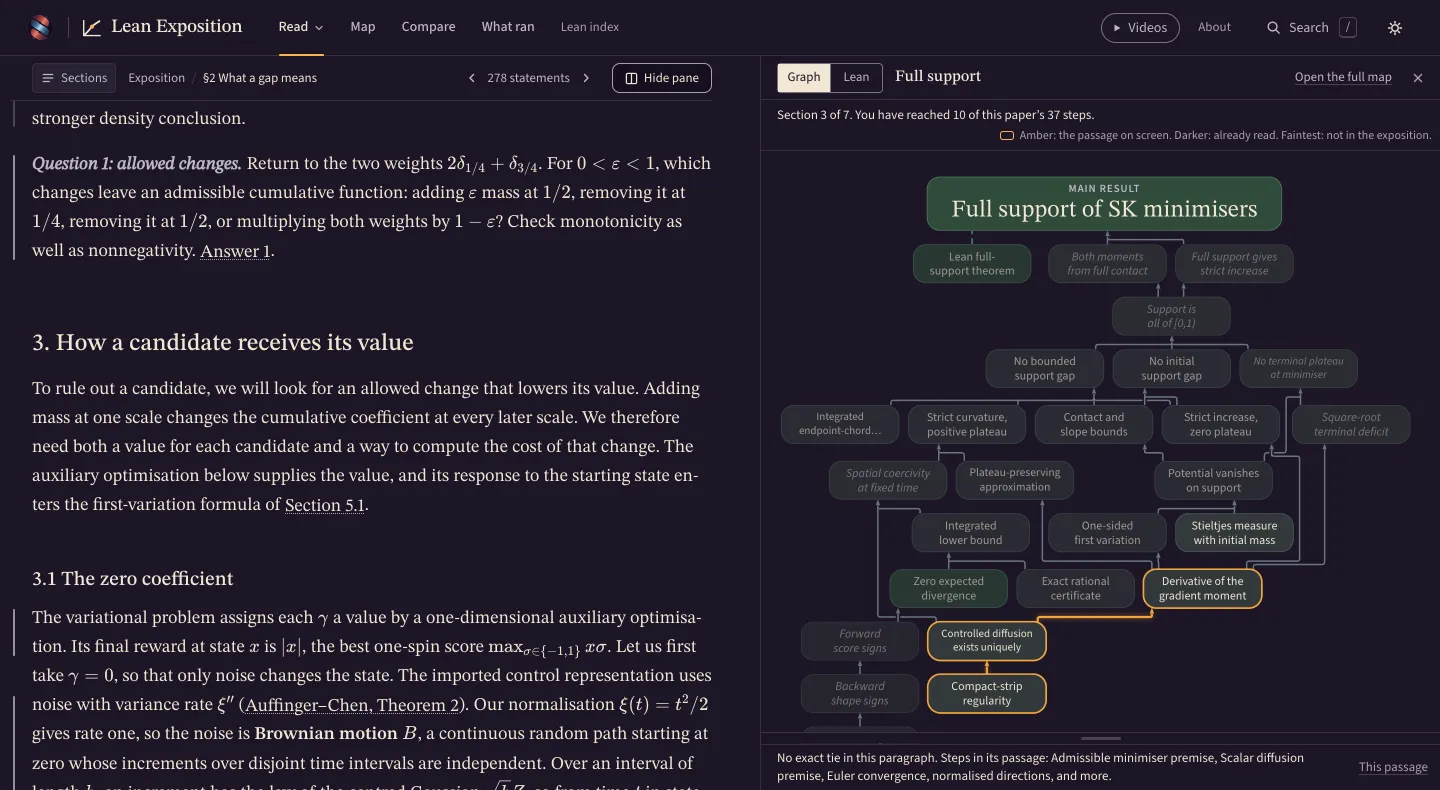
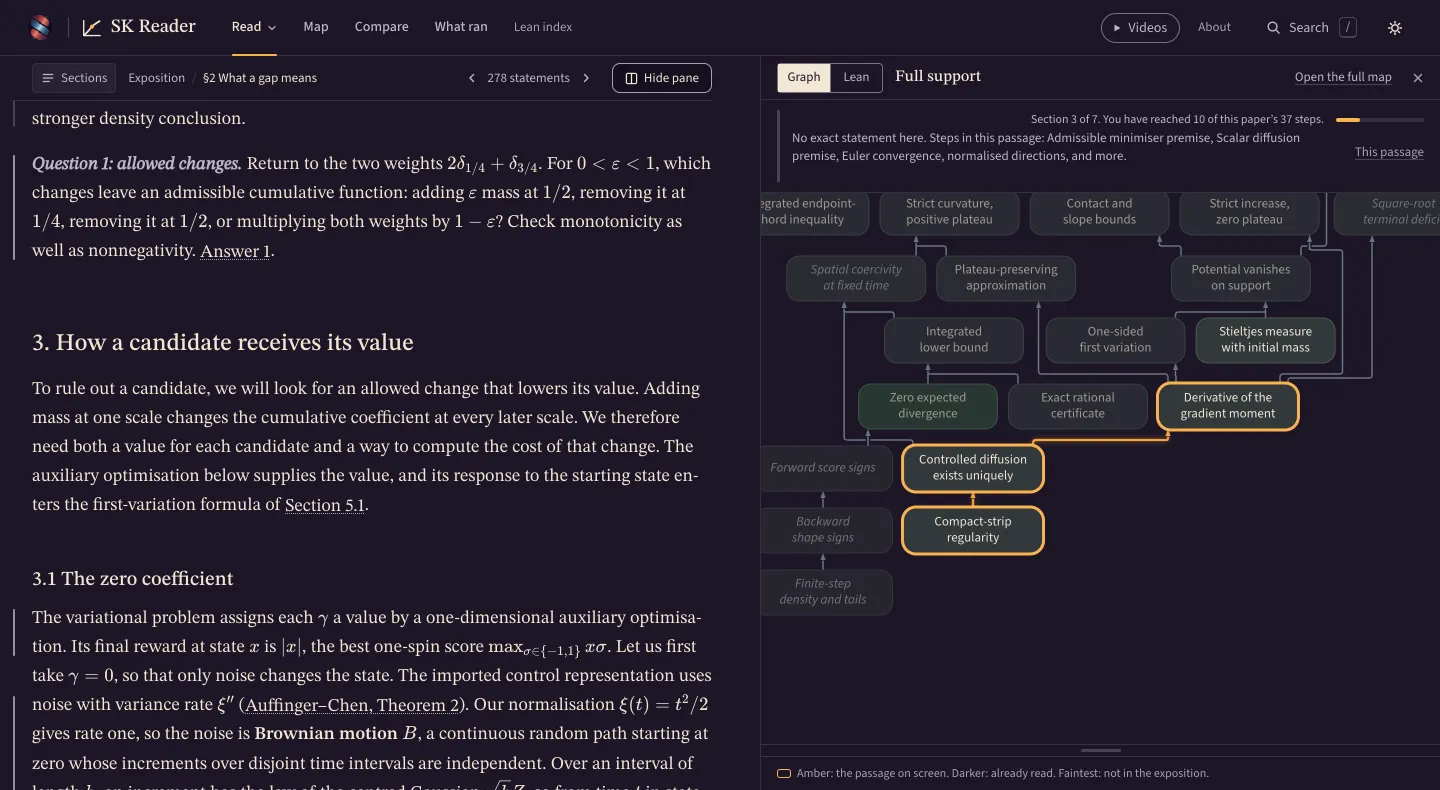
Name the website SK Reader
The family registry names this website SK Reader, and the footer's list of
sister sites already used that name. The header, the page titles, the citation
line and the generated README now use it too, from one constant. The software
that builds the papers keeps its name, lean-exposition, and no address changes.

The link preview image and the five pictures in the first screen are retaken,
so they carry the new name and the reader's new pane head.

diff --git a/site/src/home/heroMarkup.ts b/site/src/home/heroMarkup.ts
@@ -7,6 +7,7 @@
 
 import { LINK_CAVEAT, MODELS_STEP } from "../app/caveat.ts";
 import { siteFilms, type SiteFilm } from "../app/siteFilms.ts";
+import { SITE_NAME } from "../app/siteName.ts";
 
 export interface HeroRow {
   /** Exact text of the Lean statement. */
@@ -261,5 +262,5 @@ ${rows}
 /** The frame as plain HTML, the same markup TopBar renders, so the bar is there before the scripts. */
 export function frameHtml(base: string): string {
   const job = (href: string, name: string, quiet = false) => `<a class="topnav__job${quiet ? " topnav__job--quiet" : ""}" href="${base}${href}">${name}</a>`;
-  return `<header class="topbar"><span class="fam-lockup"><a class="fam-lockup__home" href="https://wcook04.github.io/" rel="author" title="All of Will Cook's websites and videos"><img src="${base}plectis.svg" alt="Will Cook: all websites and videos" width="26" height="26" /></a><span class="fam-lockup__rule" aria-hidden="true"></span><a class="fam-lockup__site" href="${base}" aria-label="Lean Exposition, front page"><svg viewBox="0 0 32 32" aria-hidden="true" class="wordmark__mark"><path d="M4 27 L4 5 M4 27 L28 27" fill="none" stroke-width="2" stroke-linecap="round"></path><path d="M5 26 C10 22 13 17 16 14 C19 11 22 9 27 6" fill="none" stroke-width="2.6" stroke-linecap="round"></path><circle cx="16" cy="14" r="3"></circle></svg><span class="fam-lockup__name" translate="no">Lean Exposition</span></a></span><nav class="topnav" aria-label="Main">${job("read/short", "Read")}${job("map", "Map")}${job("compare", "Compare")}${job("checks", "What ran")}${job("lean", "Lean index", true)}</nav></header>`;
+  return `<header class="topbar"><span class="fam-lockup"><a class="fam-lockup__home" href="https://wcook04.github.io/" rel="author" title="All of Will Cook's websites and videos"><img src="${base}plectis.svg" alt="Will Cook: all websites and videos" width="26" height="26" /></a><span class="fam-lockup__rule" aria-hidden="true"></span><a class="fam-lockup__site" href="${base}" aria-label="${SITE_NAME}, front page"><svg viewBox="0 0 32 32" aria-hidden="true" class="wordmark__mark"><path d="M4 27 L4 5 M4 27 L28 27" fill="none" stroke-width="2" stroke-linecap="round"></path><path d="M5 26 C10 22 13 17 16 14 C19 11 22 9 27 6" fill="none" stroke-width="2.6" stroke-linecap="round"></path><circle cx="16" cy="14" r="3"></circle></svg><span class="fam-lockup__name" translate="no">${SITE_NAME}</span></a></span><nav class="topnav" aria-label="Main">${job("read/short", "Read")}${job("map", "Map")}${job("compare", "Compare")}${job("checks", "What ran")}${job("lean", "Lean index", true)}</nav></header>`;
 }

diff --git a/site/vite.config.ts b/site/vite.config.ts
@@ -8,6 +8,7 @@ import { inflateSync } from "node:zlib";
 import { frameHtml, heroHtml, heroLinks } from "./src/home/heroMarkup.ts";
 import { readerFirstScreenHtml, readerSkeletonHtml } from "./src/reader/skeleton.ts";
 import { siteFacts, type SiteFacts } from "./src/home/siteFacts.ts";
+import { SITE_NAME } from "./src/app/siteName.ts";
 
 // The three accounts and architectural companion, as the repository renders them.
 // Download links use page counts read from the same files at build time.
@@ -388,7 +389,7 @@ function firstScreen(base: string, facts: SiteFacts, build = false): Plugin {
 }
 
 // The public repository that receives the static build has no other README.
-const SITE_README = `# Lean Exposition website
+const SITE_README = `# ${SITE_NAME} website
 
 Read a mathematical paper with the exact Lean statement beside the paragraph
 that describes it. Lean is a language for writing statements and proofs that a
@@ -465,7 +466,7 @@ const ROUTE_TITLES: Record<string, string> = {
   "read/short": "Short paper",
   "read/expository": "Exposition",
 };
-const titled = (html: string, title: string) => html.replace(/<title>[^<]*<\/title>/, `<title>${title} · Lean Exposition</title>`);
+const titled = (html: string, title: string) => html.replace(/<title>[^<]*<\/title>/, `<title>${title} · ${SITE_NAME}</title>`);
 
 // For readers that fetch text rather than run the page. It describes the same files the
 // browser reads, and no page loads it.

diff --git a/site/src/app/TopBar.tsx b/site/src/app/TopBar.tsx
@@ -13,6 +13,7 @@ import { PAPER_NAMES, STAGE_ORDER } from "./papers";
 import { useMaybeEdition } from "./data";
 import { FAMILY } from "./family";
 import { VideoRows, VideosMenu } from "./VideosMenu";
+import { SITE_NAME } from "./siteName";
 
 interface Props {
   route: Route;
@@ -78,14 +79,14 @@ export function TopBar({ route, onSearch }: Props) {
           <img src={`${import.meta.env.BASE_URL}plectis.svg`} alt="Will Cook: all websites and videos" width={26} height={26} />
         </a>
         <span className="fam-lockup__rule" aria-hidden="true" />
-        <a className="fam-lockup__site" href={routeHref({ view: "home" })} aria-label="Lean Exposition, front page" aria-current={route.view === "home" ? "page" : undefined}>
+        <a className="fam-lockup__site" href={routeHref({ view: "home" })} aria-label={`${SITE_NAME}, front page`} aria-current={route.view === "home" ? "page" : undefined}>
           <svg viewBox="0 0 32 32" aria-hidden="true" className="wordmark__mark">
             <path d="M4 27 L4 5 M4 27 L28 27" fill="none" strokeWidth="2" strokeLinecap="round" />
             <path d="M5 26 C10 22 13 17 16 14 C19 11 22 9 27 6" fill="none" strokeWidth="2.6" strokeLinecap="round" />
             <circle cx="16" cy="14" r="3" />
           </svg>
           <span className="fam-lockup__name" translate="no">
-            Lean Exposition
+            {SITE_NAME}
           </span>
         </a>
       </span>

diff --git a/site/tests/family.test.tsx b/site/tests/family.test.tsx
@@ -103,7 +103,7 @@ describe("a film slot", () => {
     expect(frame.className).toBe("film-slot__frame film-slot__frame--pending");
     expect(frame.getAttribute("aria-hidden")).toBe("true");
     expect([...frame.children].map((c) => [c.className, c.textContent])).toEqual([
-      ["film-slot__series", "Lean Exposition"],
+      ["film-slot__series", "SK Reader"],
       ["film-slot__name", film.short],
       ["film-slot__status", "In preparation"],
     ]);
@@ -211,7 +211,7 @@ describe("the header's lockup", () => {
     const own = lockup.querySelector<HTMLAnchorElement>("a.fam-lockup__site")!;
     expect(own.getAttribute("href")).toBe("/");
     expect(own.querySelector("svg.wordmark__mark")!.getAttribute("aria-hidden")).toBe("true");
-    expect(own.querySelector(".fam-lockup__name")!.textContent).toBe("Lean Exposition");
+    expect(own.querySelector(".fam-lockup__name")!.textContent).toBe("SK Reader");
     expect(host.querySelector(".fam-ladder")).toBeNull();
     const jobs = [...host.querySelectorAll(".topnav > a, .topnav > .readmenu > button")].map((el) => el.textContent?.trim());
     expect(jobs).toEqual(["Read", "Map", "Compare", "What ran", "Lean index"]);

diff --git a/site/src/lean/LeanPage.tsx b/site/src/lean/LeanPage.tsx
@@ -26,6 +26,7 @@ import { Breakable, Notation, PathText, Prose, ReadingFoot, readingStore } from 
 import { buildCode, CodeView, type BuiltCode } from "./CodeView";
 import { collectLocals, findDecl, makeScope, type DeclRow, type NameTarget } from "./resolve";
 import { tokenize } from "./tokenize";
+import { SITE_NAME } from "../app/siteName";
 
 const count = (n: number) => n.toLocaleString("en-GB");
 
@@ -841,7 +842,7 @@ export function LeanPage({ route }: { route: Extract<Route, { view: "lean" }> })
   // PageTitle cannot see the index, so the page names its tab, and only by what exists.
   const tabTitle = decl ? (shell?.plain.get(decl.name) ?? decl.short) : knownModule ? lastPart(knownModule) : knownFolder ? folderLabel(knownFolder) : null;
   useEffect(() => {
-    document.title = tabTitle ? `${tabTitle} · Lean Exposition` : "Lean index · Lean Exposition";
+    document.title = tabTitle ? `${tabTitle} · ${SITE_NAME}` : `Lean index · ${SITE_NAME}`;
   }, [tabTitle]);
 
   // A new declaration starts at its head, unless Back is restoring a place.

diff --git a/site/src/app/cite.ts b/site/src/app/cite.ts
@@ -5,6 +5,7 @@
 import type { Snapshot, Stage } from "../api/types";
 import { PAPER_NAMES } from "./papers";
 import { routeHref, type Route } from "./router";
+import { SITE_NAME } from "./siteName";
 
 /** The query parameter an edition-pinned link carries: a manifest hash prefix. */
 export const EDITION_PARAM = "edition";
@@ -43,7 +44,7 @@ export interface CitationTarget {
 export function citationText(target: CitationTarget, route: Route, snapshot: Snapshot, origin = window.location.origin): string {
   const what = [target.stage ? PAPER_NAMES[target.stage].short : null, target.place ?? null].filter(Boolean).join(", ");
   return [
-    `Lean Exposition${what ? `: ${what}` : ""}.`,
+    `${SITE_NAME}${what ? `: ${what}` : ""}.`,
     `Edition ${snapshot.bundle_id} ${snapshot.bundle_version}, manifest SHA-256 ${snapshot.manifest_sha256}.`,
     editionLink(route, snapshot, origin),
   ].join(" ");

diff --git a/site/src/app/PageTitle.tsx b/site/src/app/PageTitle.tsx
@@ -3,6 +3,7 @@ import { useLayoutEffect } from "react";
 import { useEdition } from "./data";
 import { PAPER_NAMES } from "./papers";
 import type { Route } from "./router";
+import { SITE_NAME } from "./siteName";
 
 /** The edition's title, as the front page and index.html give it. */
 export const EDITION_TITLE = "Why the Sherrington–Kirkpatrick order parameter has no gaps";
@@ -43,7 +44,7 @@ export function PageTitle({ route }: { route: Route }) {
   }
   useLayoutEffect(() => {
     // The front page carries the edition's own title, as a search result or a tab names it.
-    document.title = route.view === "home" ? title : `${title} · Lean Exposition`;
+    document.title = route.view === "home" ? title : `${title} · ${SITE_NAME}`;
   }, [title, route.view]);
   return null;
 }

diff --git a/site/src/app/family.ts b/site/src/app/family.ts
@@ -6,6 +6,7 @@
 // stills into public/films/.
 
 import registry from "./family.json";
+import { SITE_NAME } from "./siteName";
 
 export interface FamilyLink {
   label: string;
@@ -62,8 +63,8 @@ export function familyFilm(id: string): FamilyFilm {
   return film;
 }
 
-/** The series name a held frame carries: this website's name as its own header gives it. */
-export const FILM_SERIES = "Lean Exposition";
+/** The series name a held frame carries: this website's name. */
+export const FILM_SERIES = SITE_NAME;
 
 const YOUTUBE = /^https:\/\/(?:www\.youtube\.com\/watch\?v=|youtu\.be\/)[\w-]+/;
 

diff --git a/site/tests/page-title.test.tsx b/site/tests/page-title.test.tsx
@@ -35,7 +35,7 @@ describe("page title after navigation", () => {
     ];
     for (const [route, title] of cases) {
       await act(async () => root!.render(<PageTitle route={route} />));
-      expect(document.title).toBe(`${title} · Lean Exposition`);
+      expect(document.title).toBe(`${title} · SK Reader`);
     }
     await act(async () => root!.render(<PageTitle route={{ view: "home" }} />));
     expect(document.title).toBe("Why the Sherrington–Kirkpatrick order parameter has no gaps");

diff --git a/site/src/app/siteName.ts b/site/src/app/siteName.ts
@@ -1,0 +1,4 @@
+// This website's name, as the family registry gives it (family.json: "SK Reader", once
+// "Lean Exposition"). The software that builds the papers keeps its own name, lean-exposition.
+// No browser API and no import.meta here: vite.config.ts reads it too.
+export const SITE_NAME = "SK Reader";

diff --git a/site/scripts/capture-tour-stills.py b/site/scripts/capture-tour-stills.py
@@ -41,7 +41,8 @@ async def follow(page: Page, base: str) -> None:
     await page.goto(base + "read/expository/")
     await settle(page, 2600)
     await scroll_paper(page)
-    await page.mouse.move(700, 780)
+    await page.mouse.move(720, 28)
+    await settle(page, 900)
 
 
 async def tick(page: Page, base: str) -> None:
@@ -59,7 +60,8 @@ async def card(page: Page, base: str) -> None:
         raise SystemExit(f'no card "{CARD}" on the graph')
     await page.mouse.click(box["x"] + box["width"] / 2, box["y"] + box["height"] / 2)
     await settle(page, 2400)
-    await page.mouse.move(700, 780)
+    await page.mouse.move(720, 28)
+    await settle(page, 900)
 
 
 async def compare(page: Page, base: str) -> None:
